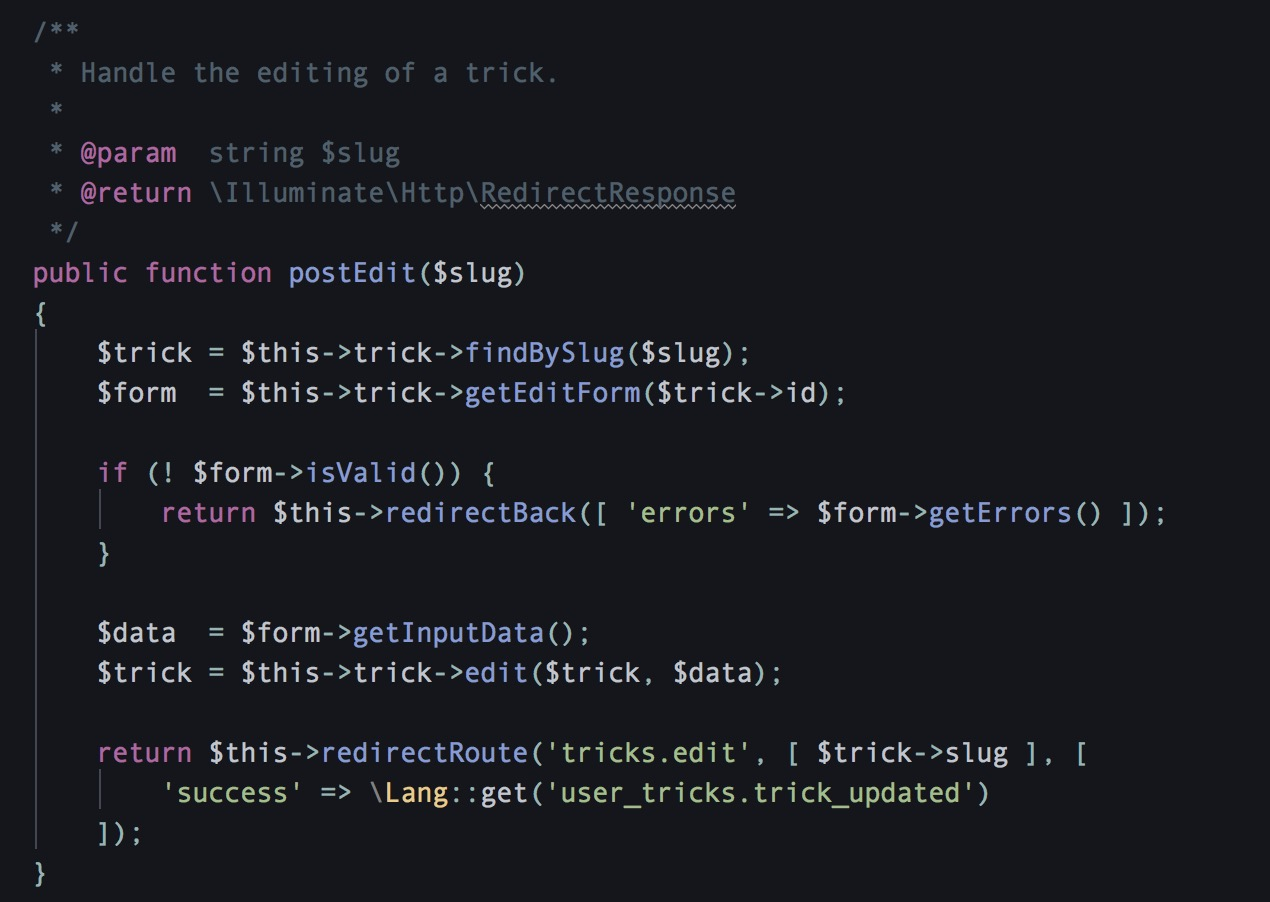
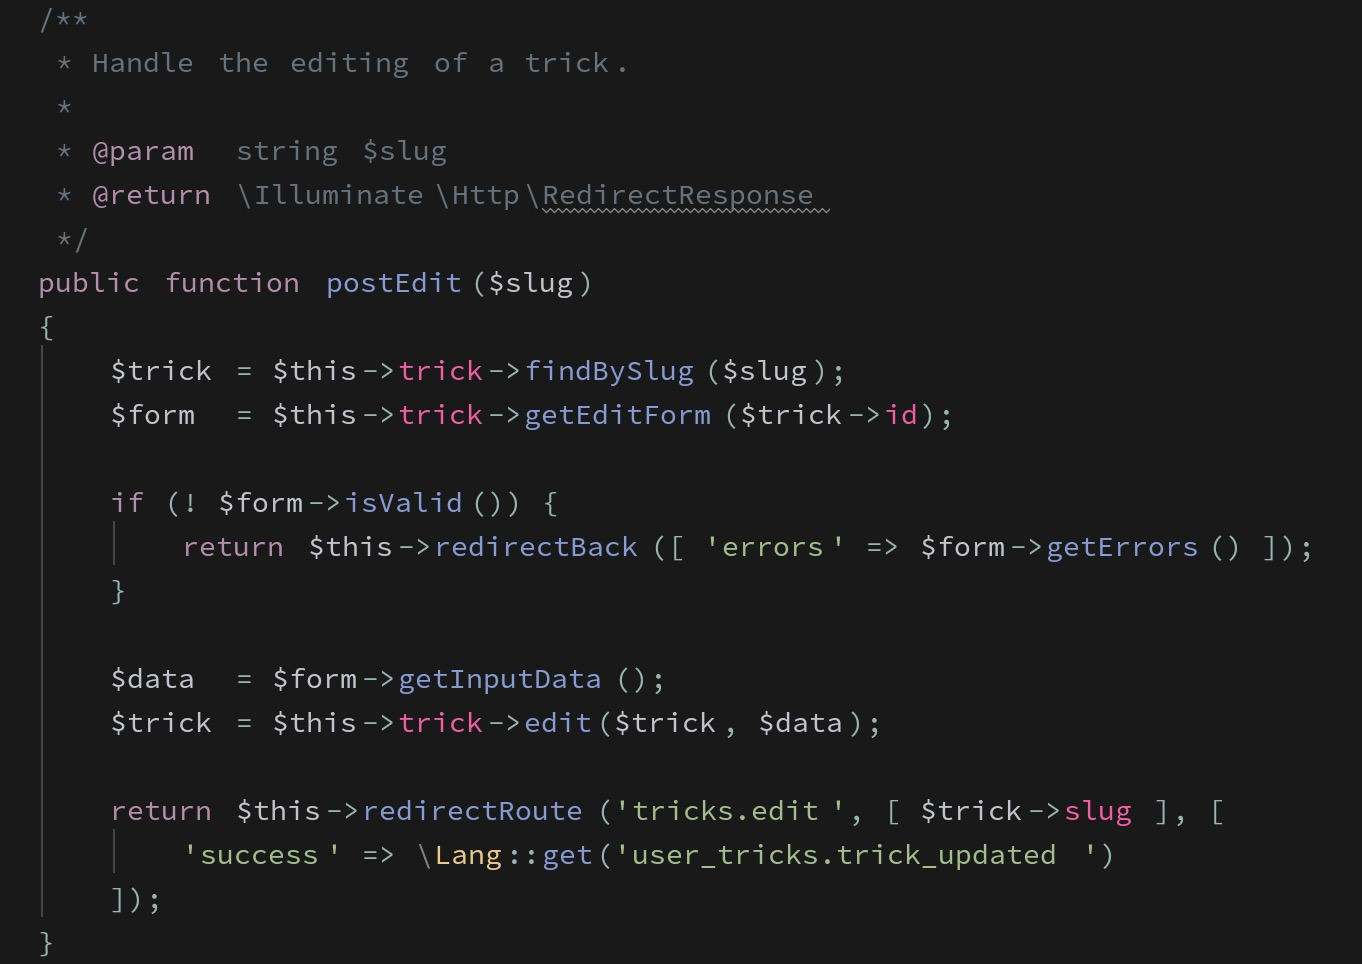
Update

diff --git a/README.md b/README.md
@@ -8,6 +8,6 @@
 #### ArtisanSpaceDarker
 ![image](https://github.com/emanci/PhpStorm-Theme/blob/master/assets/ArtisanSpaceDarker.png?raw=true)
 #### ArtisanSpaceLighter
-![image](https://github.com/emanci/phpstorm-theme/blob/master/assets/screenshot_php.png?raw=true)
+![image](https://github.com/emanci/phpstorm-theme/blob/master/assets/ArtisanSpaceLighter.png?raw=true)
 ## HTML Screenshot
 ![image](https://github.com/emanci/phpstorm-theme/blob/master/assets/screenshot_html.png?raw=true)
